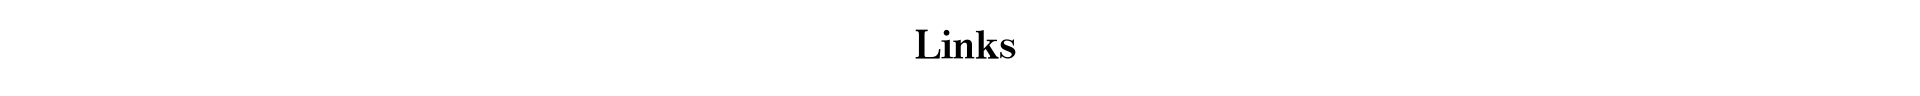
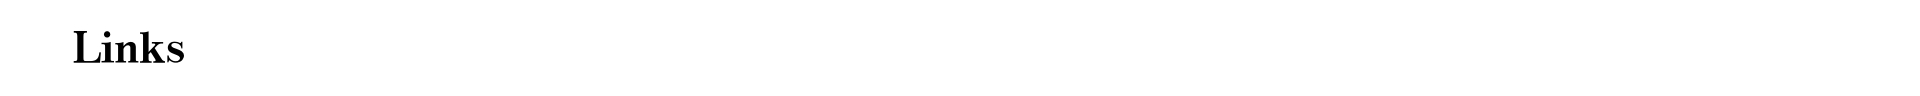
* change position of title

Changed region(s): [[0.0312, 0.3125, 0.0938, 0.6562], [0.4688, 0.4062, 0.5312, 0.625], [0.4688, 0.3125, 0.5312, 0.375]]

diff --git a/README.md b/README.md
@@ -10,7 +10,7 @@
 
 <br/>
 
-<img src="./assets/side-project.jpg?v=1" alit="logo"/>
+<img src="./assets/side-project.jpg?v=2" alit="logo"/>
 
 - [达达划词翻译](https://github.com/waynecz/dadda-translate-crx) @好看的划词翻译插件
 - [vue-image-inputer](https://github.com/waynecz/vue-img-inputer) @优雅的图片输入框
@@ -20,7 +20,7 @@
 
 <br/>
 
-<img src="./assets/posts.jpg?v=1" alit="logo"/>
+<img src="./assets/posts.jpg?v=2" alit="logo"/>
 
 1.  [如果你也想写个完整的 Vue 组件项目](https://zhuanlan.zhihu.com/p/39012159)
 2.  [SVG: 浪啊，浪来了，大浪来了](https://zhuanlan.zhihu.com/p/36031294)
@@ -42,7 +42,7 @@
 
 <br/>
 
-<img src="./assets/links.jpg?v=1" alit="logo"/>
+<img src="./assets/links.jpg?v=2" alit="logo"/>
 
 - [全栈的安全小弟](http://gnaixx.cc/) - [github](https://github.com/gnaixx)
 - [啥都会的烫神](https://blog.razord.top/) - [github](https://github.com/Dreamacro)
